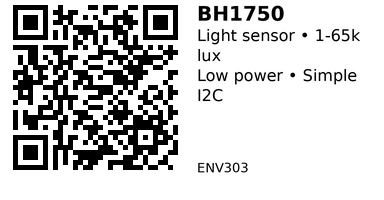
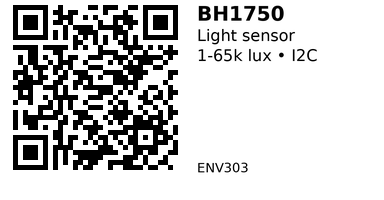
Fix ENV3xx documentation issues
Markdown rendering fixes:
- Added blank lines before Libraries lists (ENV301, ENV302, ENV303)
- Added blank line before Circuit explanation bullets (ENV304)

Sticker improvements:
- Simplified line 1 to just "Light sensor" (ENV301-303)
- Added range + I2C to line 2 for better info density
- ENV301: "0.1-40k lux • I2C"
- ENV302: "188µ-88k lux • I2C"
- ENV303: "1-65k lux • I2C"
- ENV304: Kept as is (analog, not I2C)

AliExpress link updates:
- ENV301: Updated to working product link
- ENV302: Updated to working product link
- ENV303: Updated to working product link

🤖 Generated with Claude Code

Changed region(s): [[0.5, 0.24, 0.9375, 0.42], [0.7812, 0.12, 0.9375, 0.21], [0.5, 0.45, 0.5938, 0.51]]

diff --git a/docs/components/Environmental/Light/ENV302.md b/docs/components/Environmental/Light/ENV302.md
@@ -11,8 +11,8 @@ tags:
   - digital
   - esp32-compatible
   - arduino-compatible
-short: "Light sensor • 188µ-88k lux"
-use: "Wide range • High sensitivity"
+short: "Light sensor"
+use: "188µ-88k lux • I2C"
 ---
 
 # TSL2591 High Dynamic Range Light Sensor - ENV302
@@ -99,12 +99,13 @@ void loop() {
 ```
 
 **Libraries:**
+
 - [Adafruit TSL2591](https://github.com/adafruit/Adafruit_TSL2591_Library)
 
 ## Links
 
 - [Datasheet: TSL2591 PDF](https://cdn-shop.adafruit.com/datasheets/TSL25911_Datasheet_EN_v1.pdf)
-- [Purchase: TSL2591 High Dynamic Range Light Sensor](https://www.aliexpress.com/item/1005006003966353.html)
+- [Purchase: TSL2591 High Dynamic Range Light Sensor](https://www.aliexpress.com/item/1005007084088092.html)
 - [Tutorial: Adafruit TSL2591 Guide](https://learn.adafruit.com/adafruit-tsl2591)
 
 ---

diff --git a/docs/components/Environmental/Light/ENV301.md b/docs/components/Environmental/Light/ENV301.md
@@ -10,8 +10,8 @@ tags:
   - digital
   - esp32-compatible
   - arduino-compatible
-short: "Light sensor • 0.1-40k lux"
-use: "Lux measurement • I2C"
+short: "Light sensor"
+use: "0.1-40k lux • I2C"
 ---
 
 # TSL2561 Digital Light Sensor - ENV301
@@ -101,12 +101,13 @@ void loop() {
 ```
 
 **Libraries:**
+
 - [Adafruit TSL2561](https://github.com/adafruit/Adafruit_TSL2561)
 
 ## Links
 
 - [Datasheet: TSL2561 PDF](https://cdn-shop.adafruit.com/datasheets/TSL2561.pdf)
-- [Purchase: TSL2561 Light Sensor Module](https://www.aliexpress.com/item/32828504253.html)
+- [Purchase: TSL2561 Light Sensor Module](https://www.aliexpress.com/item/1005006811956625.html)
 - [Tutorial: TSL2561 Hookup Guide (SparkFun)](https://learn.sparkfun.com/tutorials/tsl2561-luminosity-sensor-hookup-guide/all)
 
 ---

diff --git a/docs/components/Environmental/Light/ENV303.md b/docs/components/Environmental/Light/ENV303.md
@@ -11,8 +11,8 @@ tags:
   - digital
   - esp32-compatible
   - arduino-compatible
-short: "Light sensor • 1-65k lux"
-use: "Low power • Simple I2C"
+short: "Light sensor"
+use: "1-65k lux • I2C"
 ---
 
 # BH1750 Digital Light Sensor - ENV303
@@ -100,12 +100,13 @@ void loop() {
 ```
 
 **Libraries:**
+
 - [BH1750 by claws](https://github.com/claws/BH1750)
 
 ## Links
 
 - [Datasheet: BH1750FVI PDF](https://www.mouser.com/datasheet/2/348/bh1750fvi-e-186247.pdf)
-- [Purchase: BH1750 Light Sensor Module](https://www.aliexpress.com/item/32843036633.html)
+- [Purchase: BH1750 Light Sensor Module](https://www.aliexpress.com/item/1005006359106457.html)
 - [Tutorial: BH1750 Digital Light Sensor (Instructables)](https://www.instructables.com/BH1750-Digital-Light-Sensor/)
 
 ---

diff --git a/docs/registry/index.md b/docs/registry/index.md
@@ -7,7 +7,7 @@ hide:
 # Component ID Registry
 
 _This page is generated from `components/stickers/id_registry_simple.yaml`._  
-**Generated:** 2025-11-25T08:19:53Z
+**Generated:** 2025-11-25T09:22:22Z
 
 ## Categories
 | Code | Title | Count | Next ID | Next by family |

diff --git a/docs/components/Environmental/Light/ENV304.md b/docs/components/Environmental/Light/ENV304.md
@@ -51,6 +51,7 @@ Use like a variable resistor - orientation doesn't matter.
 ```
 
 **Circuit explanation:**
+
 - LDR from 3.3V to ADC pin
 - 10kΩ fixed resistor from ADC pin to GND
 - As light increases, LDR resistance drops, ADC voltage rises
